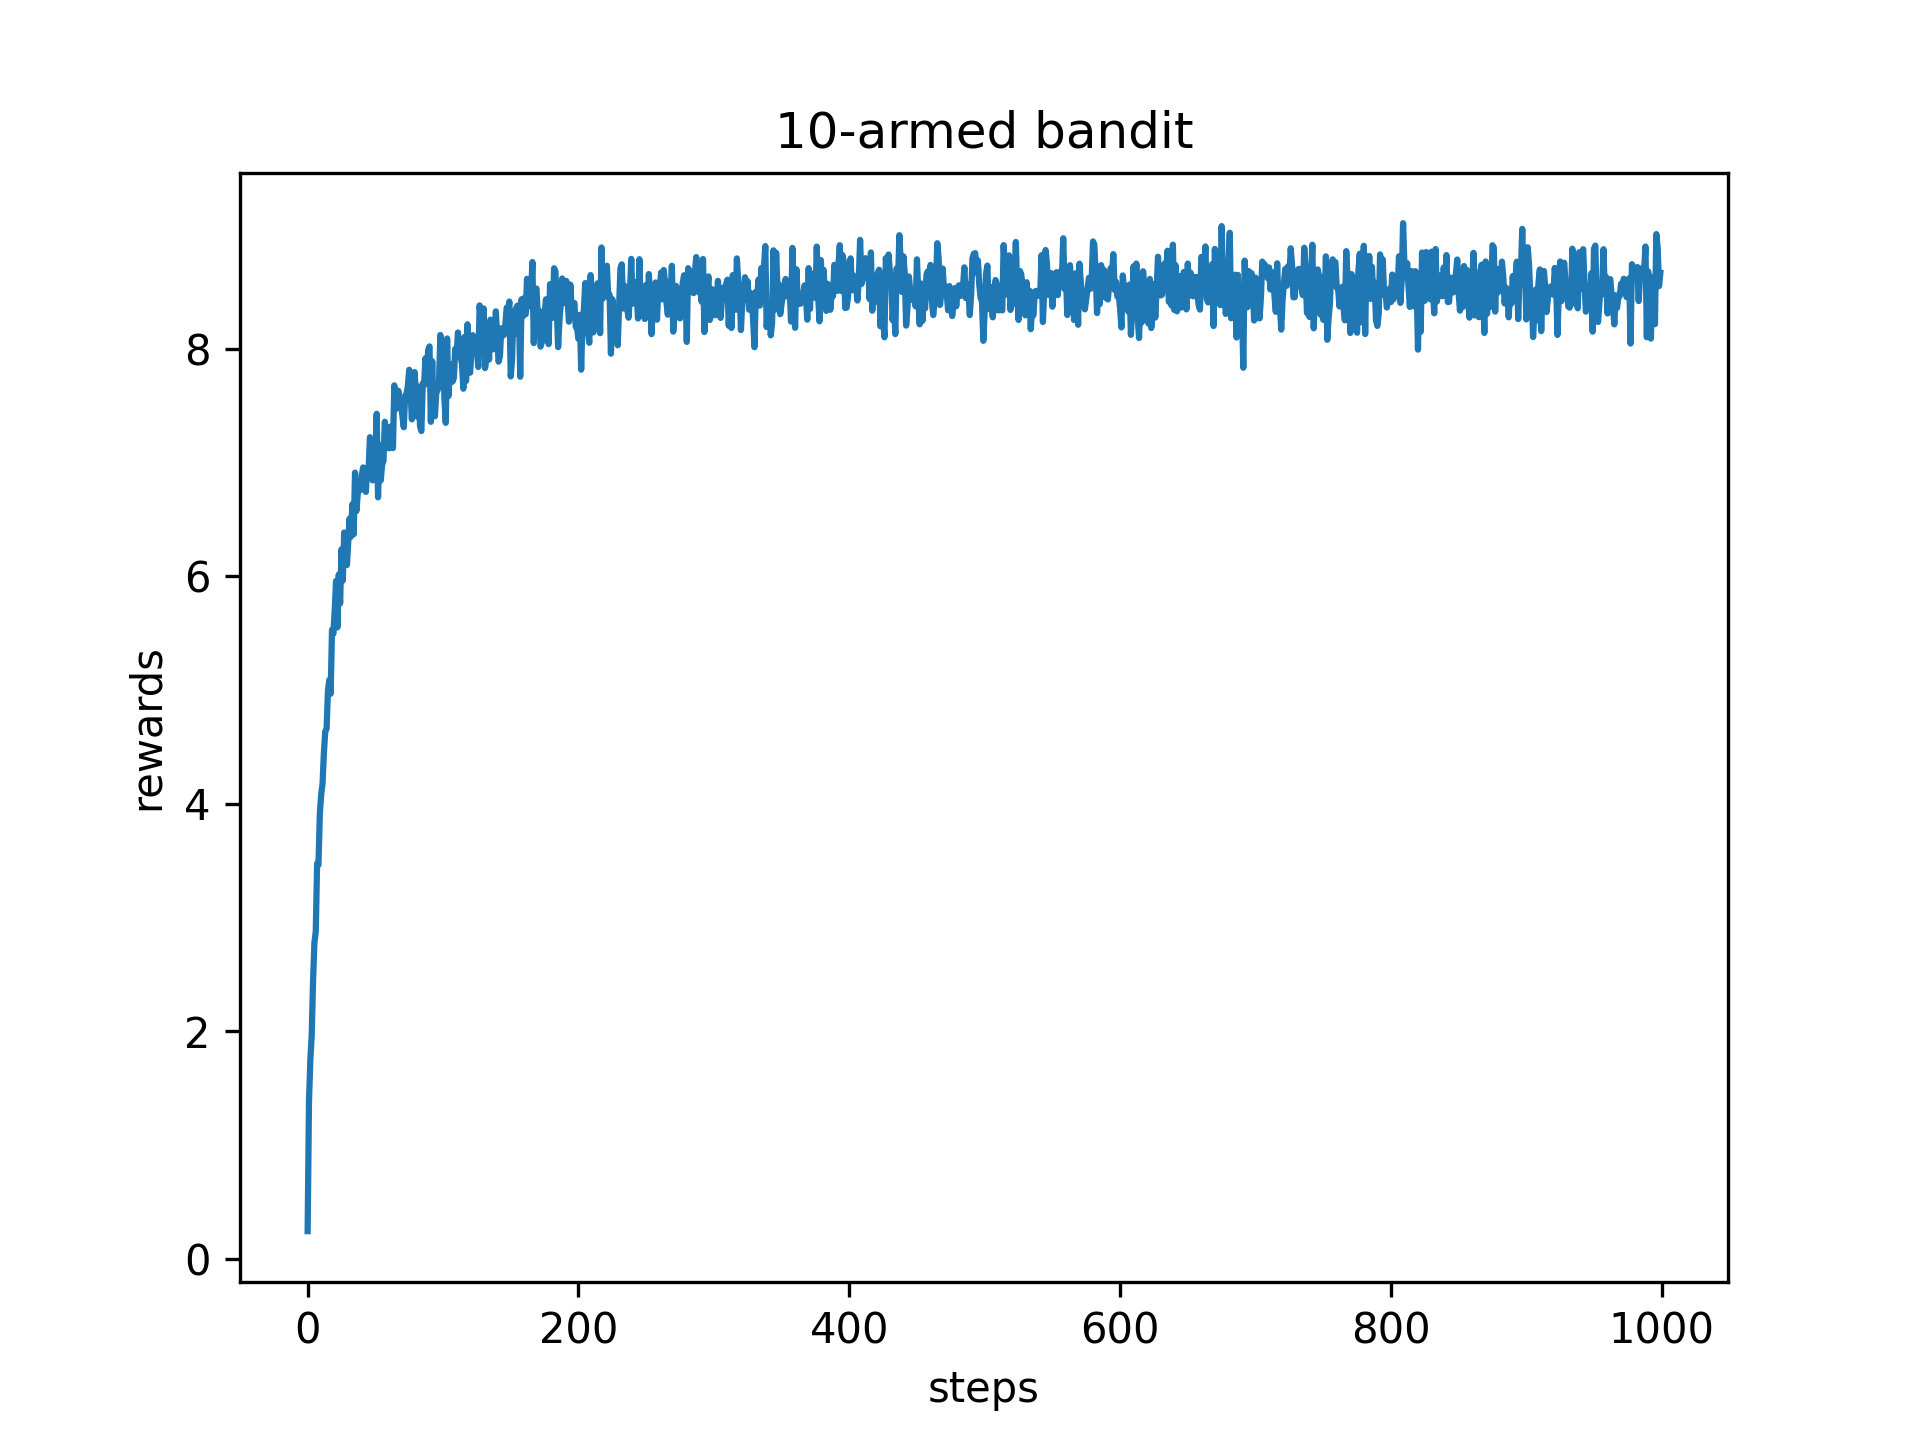
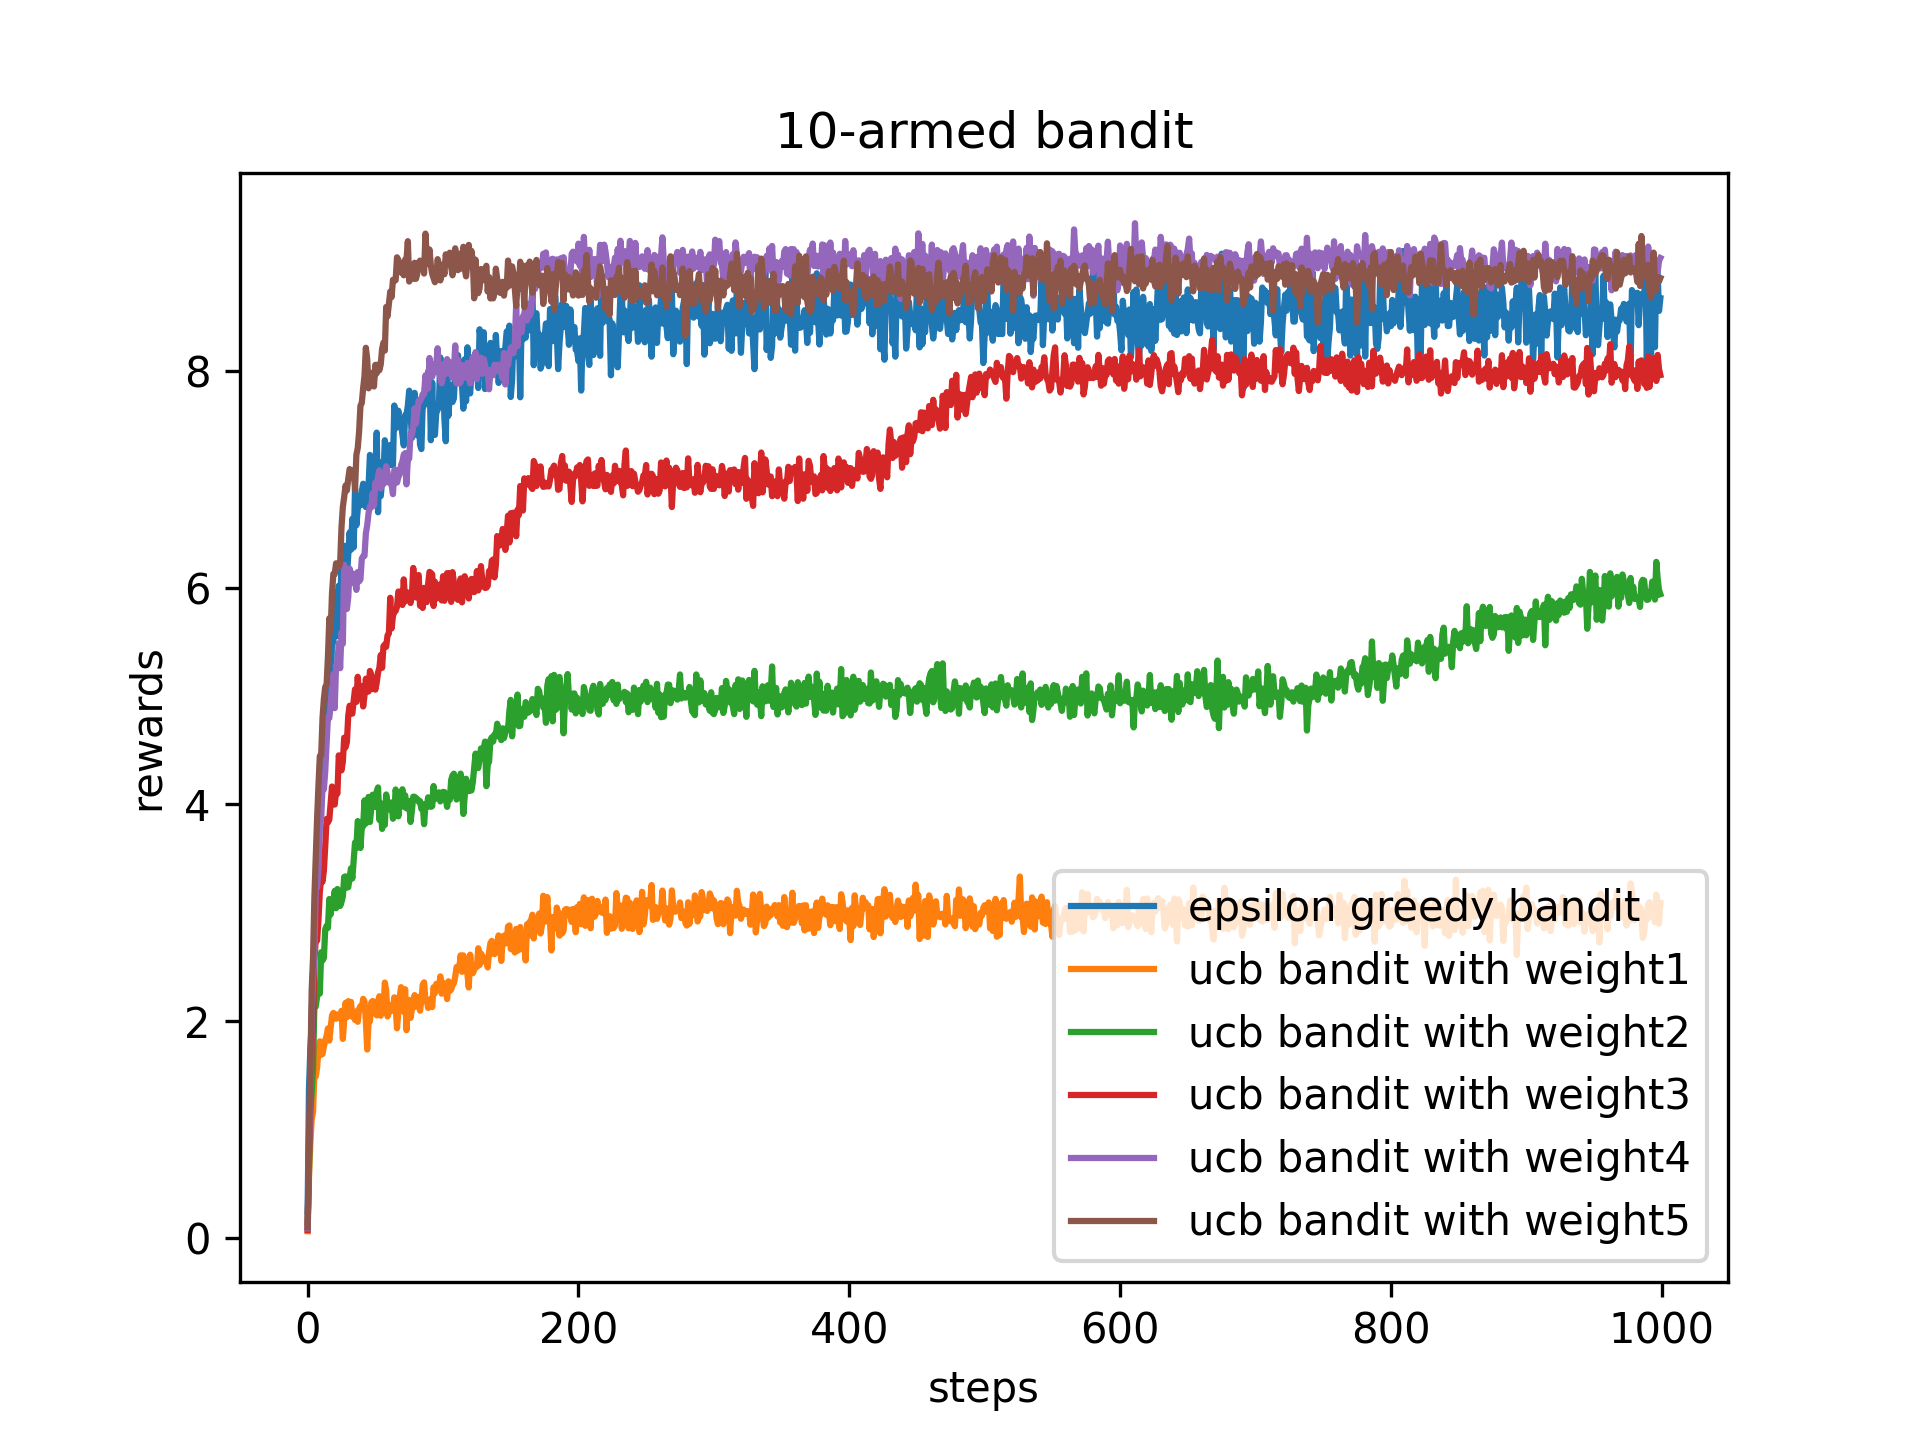
ucb

diff --git a/bandit/UCB_bandit.py b/bandit/UCB_bandit.py
@@ -1,0 +1,68 @@
+import numpy as np
+import pandas as pd
+import matplotlib.pyplot as plt
+
+'''
+ten actions [0,1,...,9],
+and the reward of each action obey Gaussian distribution with a mean and 1 variance.
+'''
+np.random.seed(42)
+Q = np.zeros(10)
+N = np.ones(10, dtype=np.float32)
+epoch = 1000
+episode = 100
+epsilon = 0.1
+
+def bandit(a):
+    reward = np.random.normal(a,1)
+    return reward
+
+def ucb_policy(t, c):
+    return np.argmax(Q + c * np.sqrt(np.log(t) / N))
+
+def eps_greedy_policy():
+    if np.random.uniform(0,1) <= epsilon:
+        return np.random.choice(10, 1)
+    else:
+        return np.argmax(Q)
+rewards = []
+rewards1 = np.zeros((episode, epoch))
+for j in range(episode):
+    Q = np.zeros(10)
+    N = np.ones(10, dtype=np.float32)
+    for i in range(epoch):
+        action = eps_greedy_policy()
+        reward = bandit(action)
+        Q[action] = Q[action] + 1 / N[action] *(reward - Q[action])
+        N[action] += 1
+        rewards1[j][i] = reward
+    print("mean reward:{}".format(np.mean(rewards1[j])))
+rewards.append(rewards1)
+for c in range(1, 6):
+    rewards2 = np.zeros((episode, epoch))
+    for j in range(episode):
+        step = 0
+        Q = np.zeros(10)
+        N = np.ones(10, dtype=np.float32)
+        for i in range(epoch):
+            step += 1
+            action = ucb_policy(step, c)
+            reward = bandit(action)
+            Q[action] = Q[action] + 1 / N[action] *(reward - Q[action])
+            N[action] += 1
+            rewards2[j][i] = reward
+        # print("mean reward:{}".format(np.mean(rewards2[j])))
+    rewards.append(rewards2)
+plt.figure()
+for i in range(len(rewards)):
+    mean = np.mean(rewards[i], axis=0)
+    if i == 0:
+        plt.plot(mean, label="epsilon greedy bandit")
+    else:
+        plt.plot(mean, label="ucb bandit with weight {}".format(i))
+plt.legend()
+plt.title('10-armed bandit')
+plt.xlabel("steps")
+plt.ylabel("rewards")
+plt.savefig("bandit.png", dpi=300)
+plt.show()
